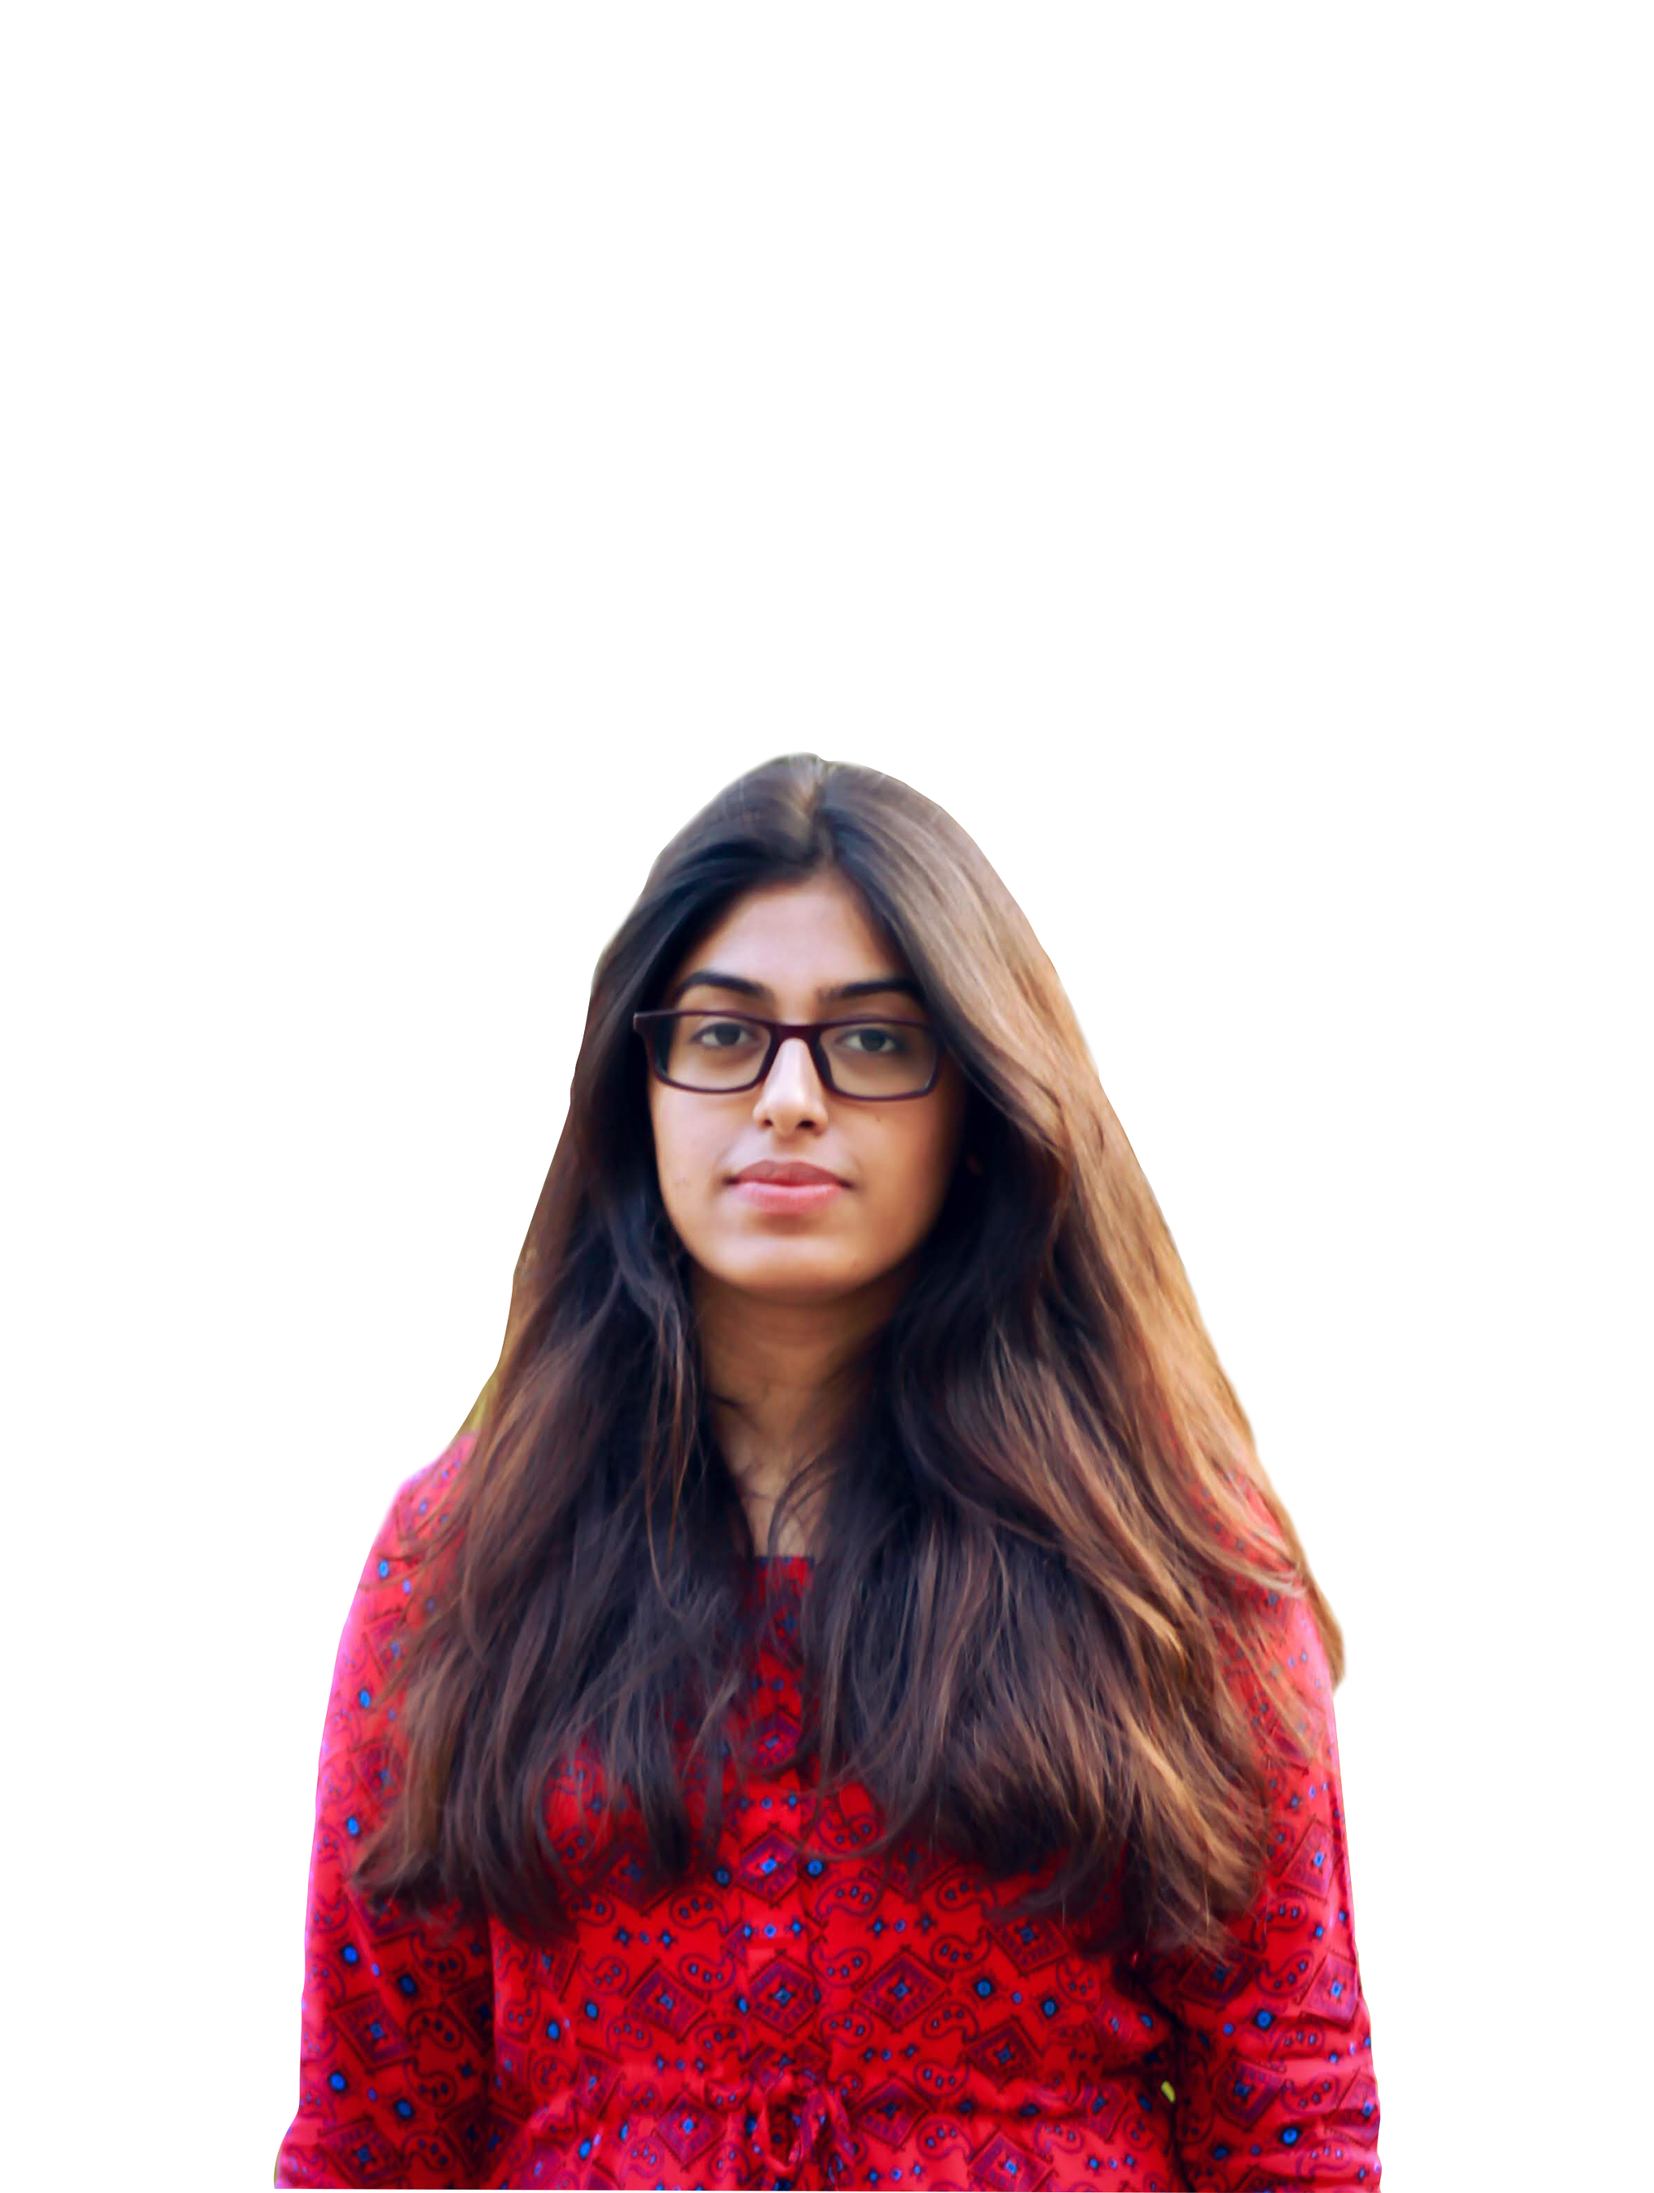
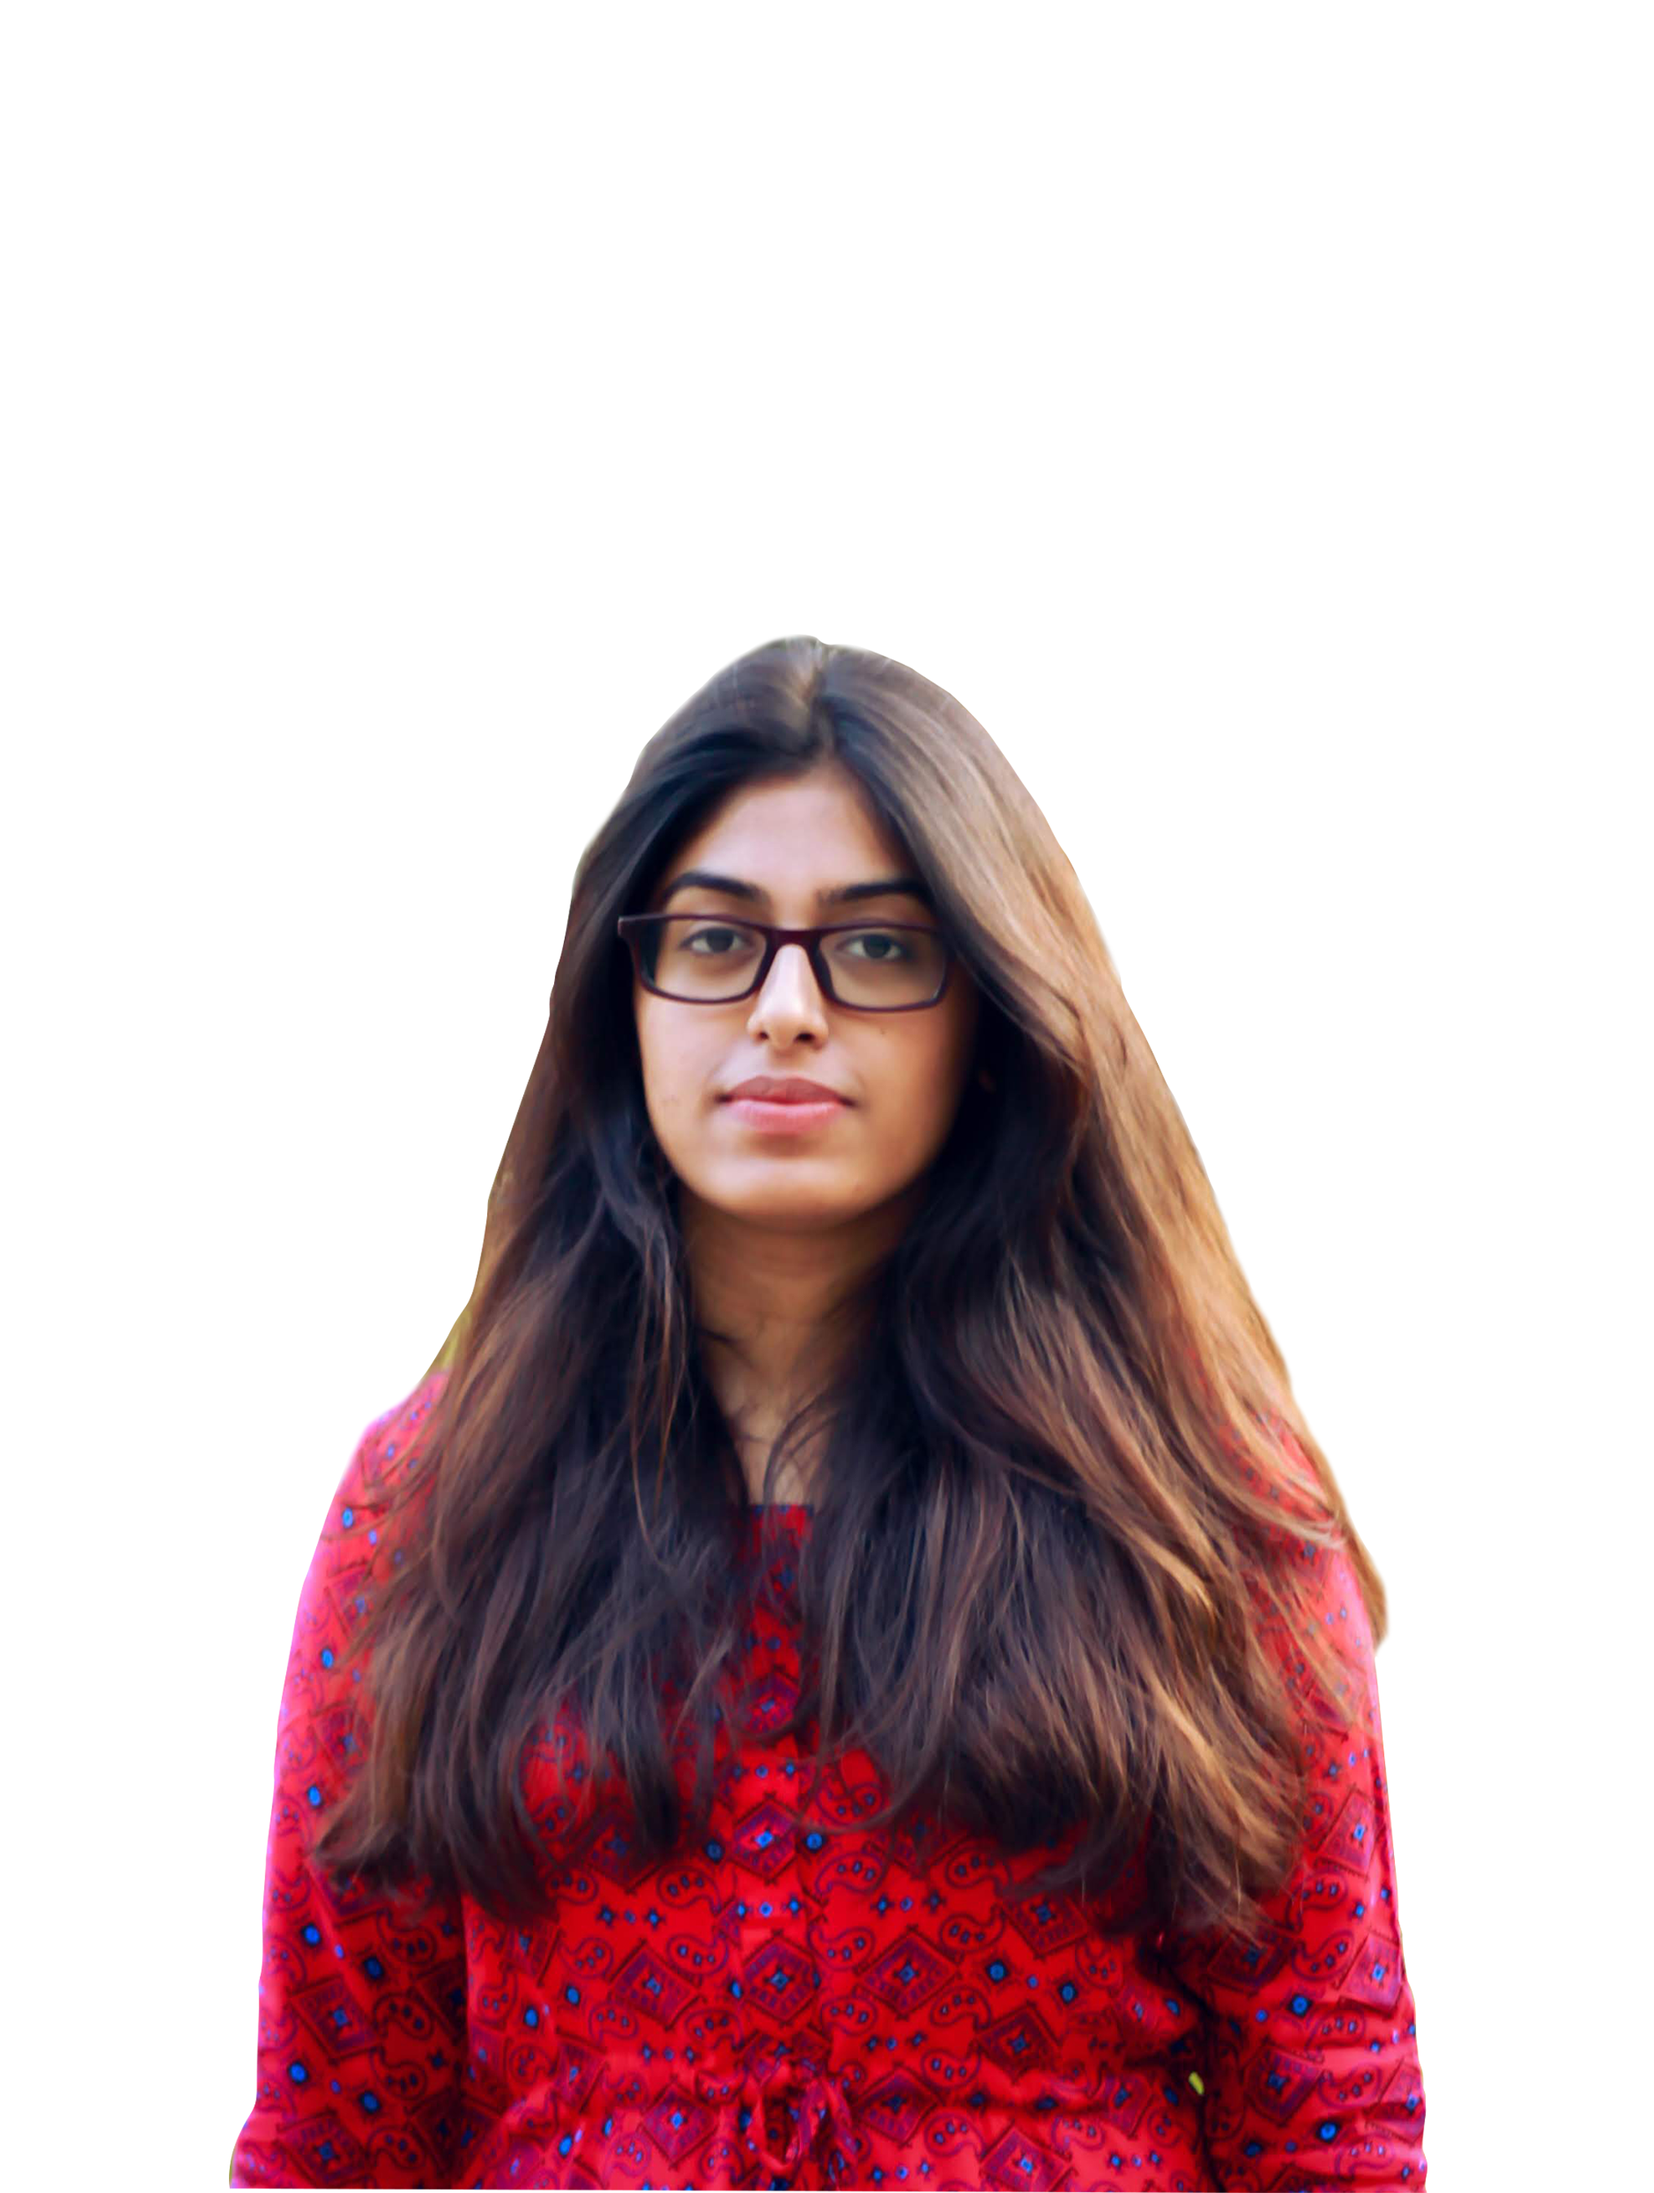
updated resized maisha photo

Changed region(s): [[0.1241, 0.2809, 0.869, 1.0]]

diff --git a/components/Vision.vue b/components/Vision.vue
@@ -3,11 +3,11 @@
   article
     .h2 We envision a world of three zeros-
     //- .h2.typewriter
-    .h2 zero poverty, 
-    .h2 zero unemployment,
-    .h2 and zero net carbon emission.
+    .h2 zero net carbon emission,
+    .h2 zero wealth concentration for ending poverty,
+    .h2 and zero unemployment by unleashing entrepreneurship in all.
   article
-    
+
     .p We believe that a more equitable and just world is possible if we foster ‘Social Business’ while leveraging young people’s talents and ideas.
     .p Endless possibility dies the moment when aspiring social entrepreneurs back off from their incredible ideas because of being clueless on how to materialize them or due to lack of access to resources like capital. Without needed resources and guidance, innovation is barred. This is unacceptable to us!
     .p We invest in socially and environmentally conscious entrepreneurs who are solving crucial issues of our times benefitting the underserved communities. We are building our first Social Business fund to invest in pre-seed and seed-stage Social Businesses and actively assist portfolio companies navigating the path to notable Social Business funds, venture investors, partners, and clients.

diff --git a/components/Footer.vue b/components/Footer.vue
@@ -2,7 +2,7 @@
 #footer
   div
     img(src="~/assets/images/logo/yyv-logo-white-small.png").faded_out
-    .h3.faded_out#slogan We build, incubate and invest in Social Businesses that are moving towards a world of three zeros - zero net carbon emission, zero wealth concentration for ending poverty, zero unemployment by unleashing entrepreneurship in all.
+    .h3.faded_out#slogan We build, incubate and invest in Social Businesses that are moving towards a world of three zeros - zero net carbon emission, zero wealth concentration for ending poverty, and zero unemployment by unleashing entrepreneurship in all.
 
   div
     .h5.faded_out  Get in Touch
